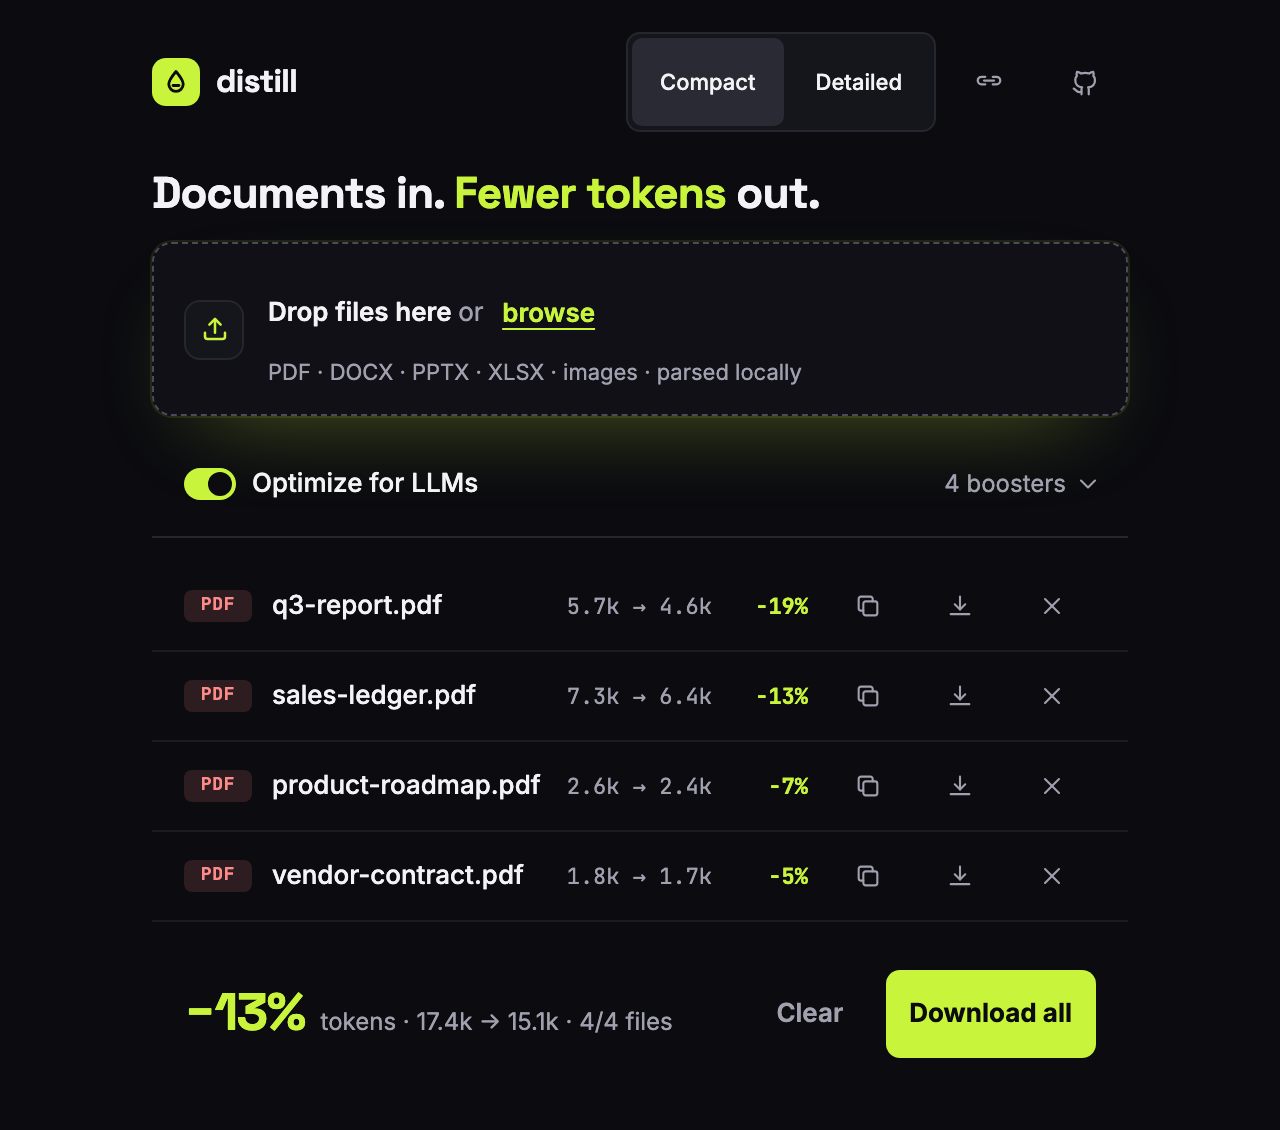
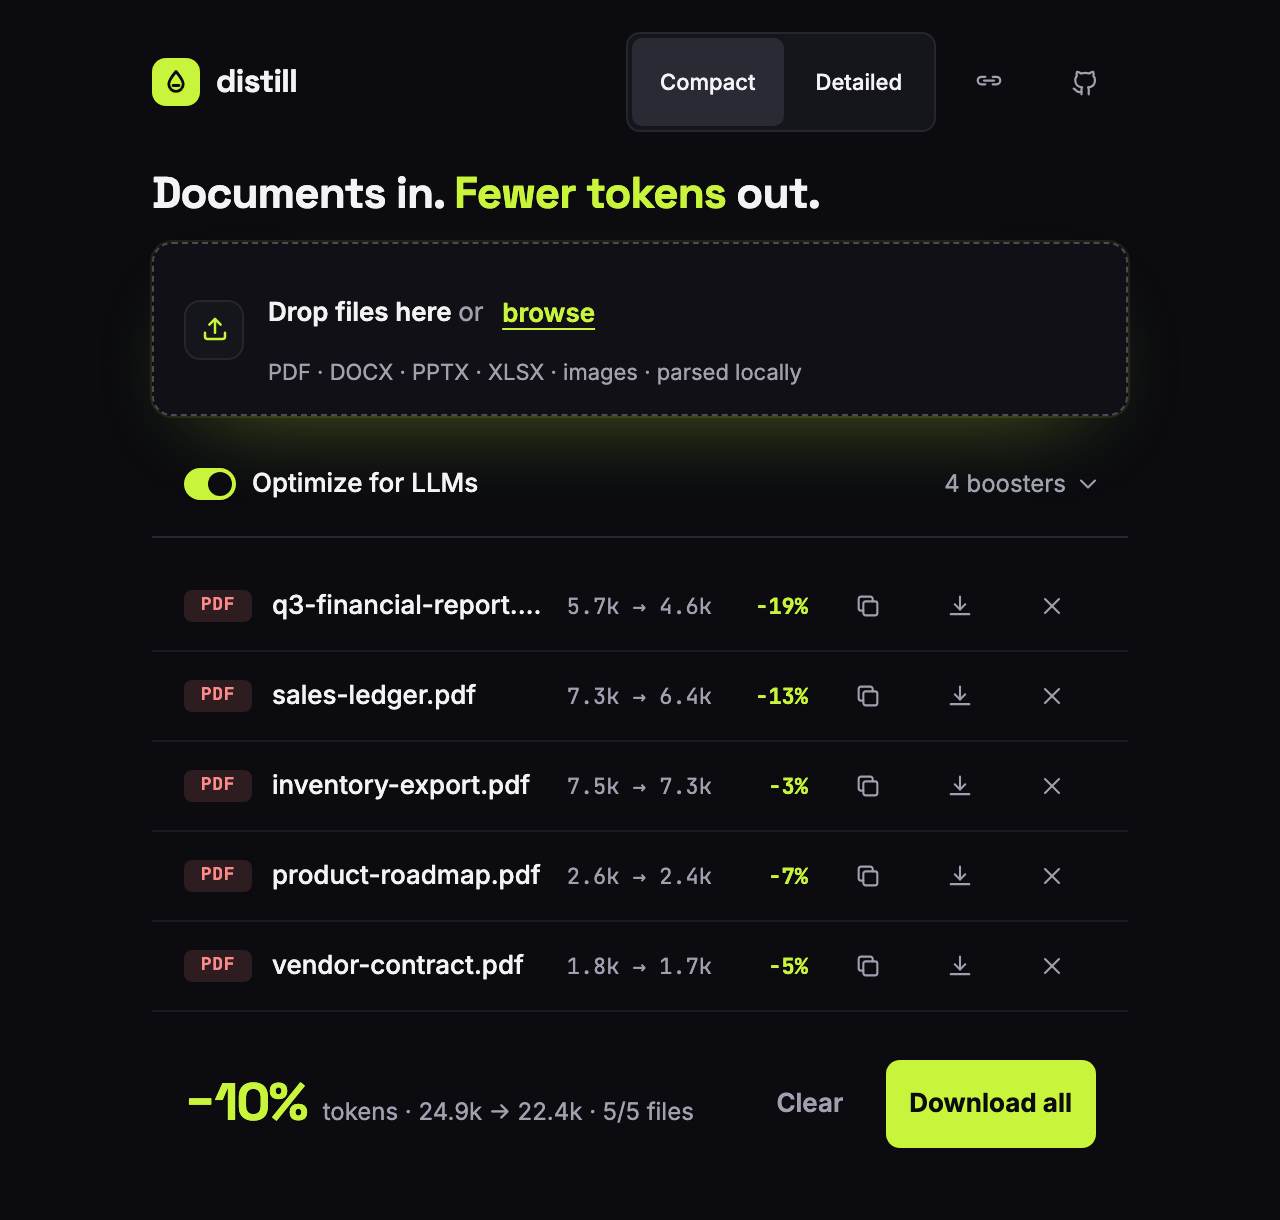
feat(site): show measured savings on five demo documents

diff --git a/site/index.html b/site/index.html
@@ -126,17 +126,19 @@
       <h2>Real numbers, from the app.</h2>
       <p class="sub">Measured on the demo documents with the default boosters. Token counts use o200k_base. Your savings depend on your files: headers, footers and links repeat more in some documents than in others.</p>
     </div>
-    <div class="meter" data-total="13">
+    <div class="meter" data-total="10">
       <div class="meter-head">
-        <span class="big" id="overall">−13%</span>
-        <span class="meter-sub">17.4k → 15.1k tokens<br>4 of 4 files</span>
+        <span class="big" id="overall">−10%</span>
+        <span class="meter-sub">24.9k → 22.4k tokens<br>5 of 5 files</span>
       </div>
       <ul class="bars">
-        <li><span class="fn">q3-report.pdf</span><span class="bar"><b style="--w:19"></b></span><span class="tk">5.7k → 4.6k</span><span class="pc">−19%</span></li>
+        <li><span class="fn">q3-financial-report.pdf</span><span class="bar"><b style="--w:19"></b></span><span class="tk">5.7k → 4.6k</span><span class="pc">−19%</span></li>
         <li><span class="fn">sales-ledger.pdf</span><span class="bar"><b style="--w:13"></b></span><span class="tk">7.3k → 6.4k</span><span class="pc">−13%</span></li>
+        <li><span class="fn">inventory-export.pdf</span><span class="bar"><b style="--w:3"></b></span><span class="tk">7.5k → 7.3k</span><span class="pc">−3%</span></li>
         <li><span class="fn">product-roadmap.pdf</span><span class="bar"><b style="--w:7"></b></span><span class="tk">2.6k → 2.4k</span><span class="pc">−7%</span></li>
         <li><span class="fn">vendor-contract.pdf</span><span class="bar"><b style="--w:5"></b></span><span class="tk">1.8k → 1.7k</span><span class="pc">−5%</span></li>
       </ul>
+      <p class="meter-note">LiteParse already returns fairly clean Markdown, so lossless savings are typically modest and bigger on table- and link-heavy documents. LLMLingua-2 (optional, lossy) goes further.</p>
     </div>
   </div>
 </section>

diff --git a/site/styles.css b/site/styles.css
@@ -120,6 +120,7 @@ h2{font-size:clamp(32px,5vw,54px);max-width:16em}
 .bars li{display:grid;grid-template-columns:1fr auto;gap:6px 14px;align-items:center}
 .fn{font-weight:500;font-size:15px;overflow-wrap:anywhere}
 .pc{font:500 14px/1 var(--mono);color:var(--accent);text-align:right;grid-column:2;grid-row:1}
+.meter-note{margin:24px 0 0;padding-top:20px;border-top:1px solid var(--border);font-size:14.5px;line-height:1.6;color:var(--muted)}
 .bar{grid-column:1/-1;grid-row:2;height:6px;border-radius:99px;background:#1f1f28;overflow:hidden}
 .bar b{display:block;height:100%;width:calc(var(--w) * 4%);background:var(--accent);border-radius:99px;transform-origin:left;animation:grow 1s .1s cubic-bezier(.2,.7,.2,1) both;animation-play-state:paused}
 .bars.in .bar b{animation-play-state:running}
@@ -145,7 +146,7 @@ td code{background:#1f1f28;border:1px solid var(--border);padding:1px 6px;border
 .tablist{display:flex;overflow-x:auto;border-bottom:1px solid var(--border);background:#101016;scrollbar-width:none}
 .tablist::-webkit-scrollbar{display:none}
 [role=tab]{flex:none;appearance:none;background:none;border:0;border-bottom:2px solid transparent;color:var(--muted);font:500 15px/1 var(--ui);padding:18px 20px;cursor:pointer;transition:color .15s;margin-bottom:-1px}
-[role=tab]:hover{color:var(--text)}
+[role=tab]:not([aria-selected=true]):hover{background:#17171f}
 [role=tab][aria-selected=true]{color:var(--text);border-bottom-color:var(--accent);background:var(--bg)}
 [role=tab]:focus-visible{outline-offset:-4px}
 [role=tabpanel]{padding:clamp(22px,4vw,36px)}
